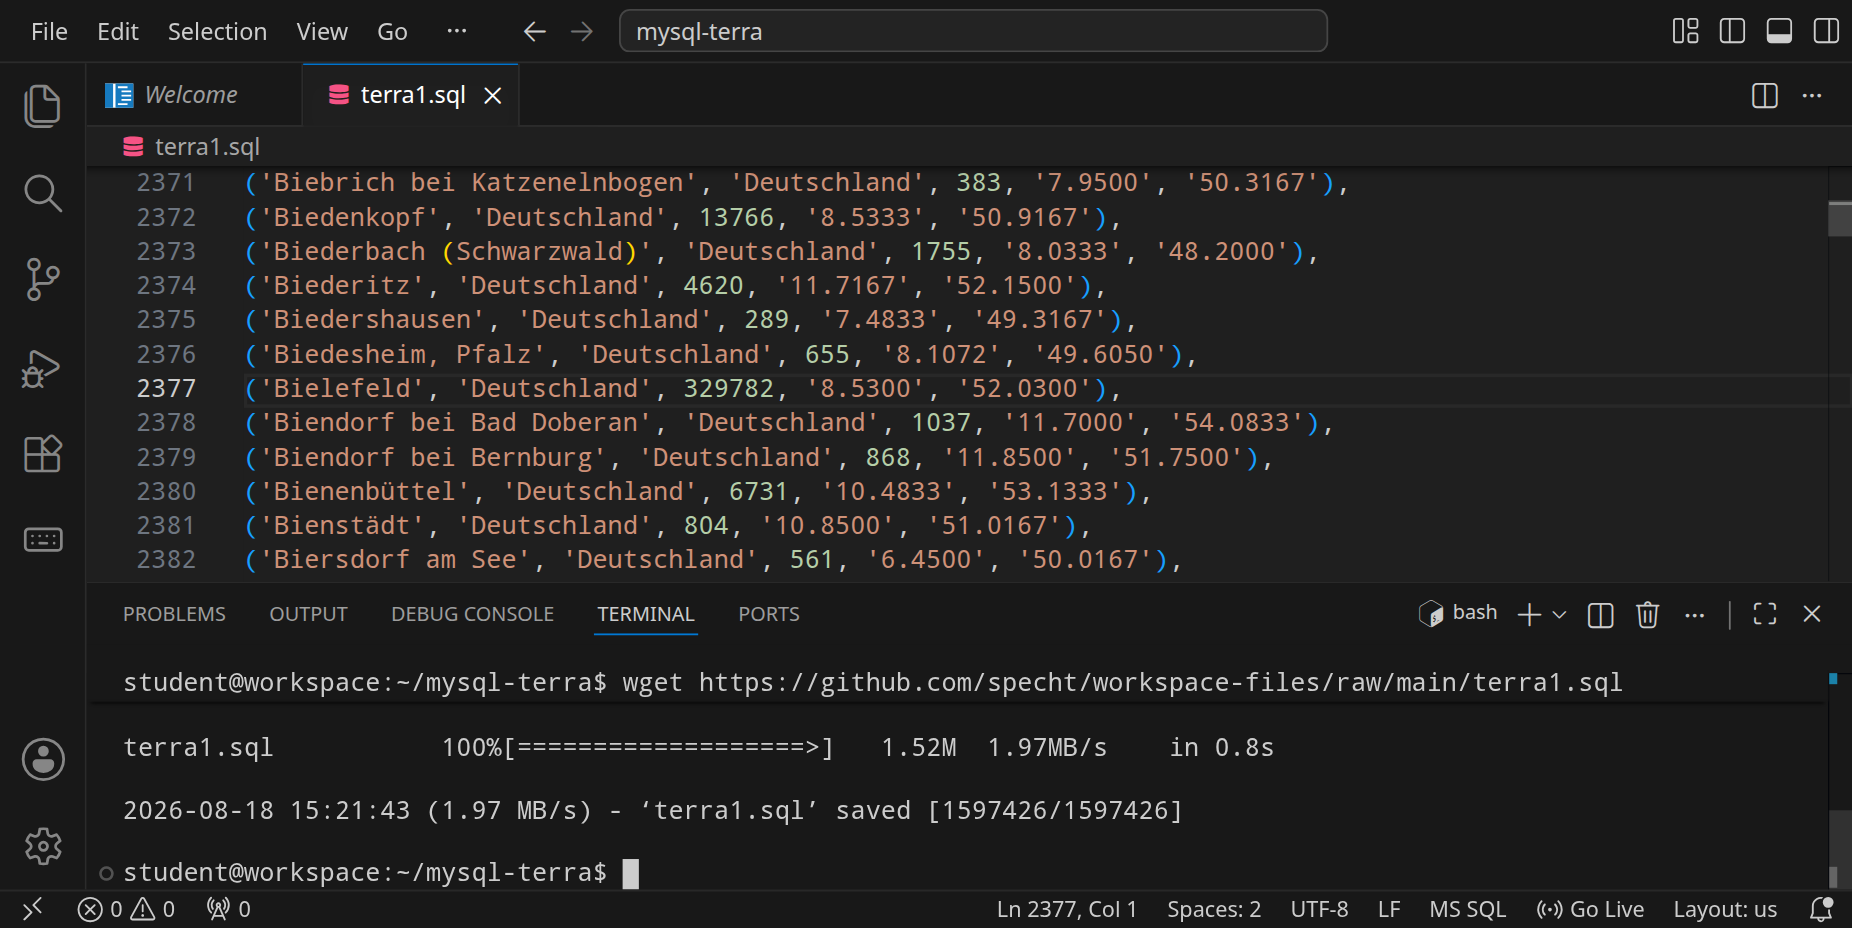
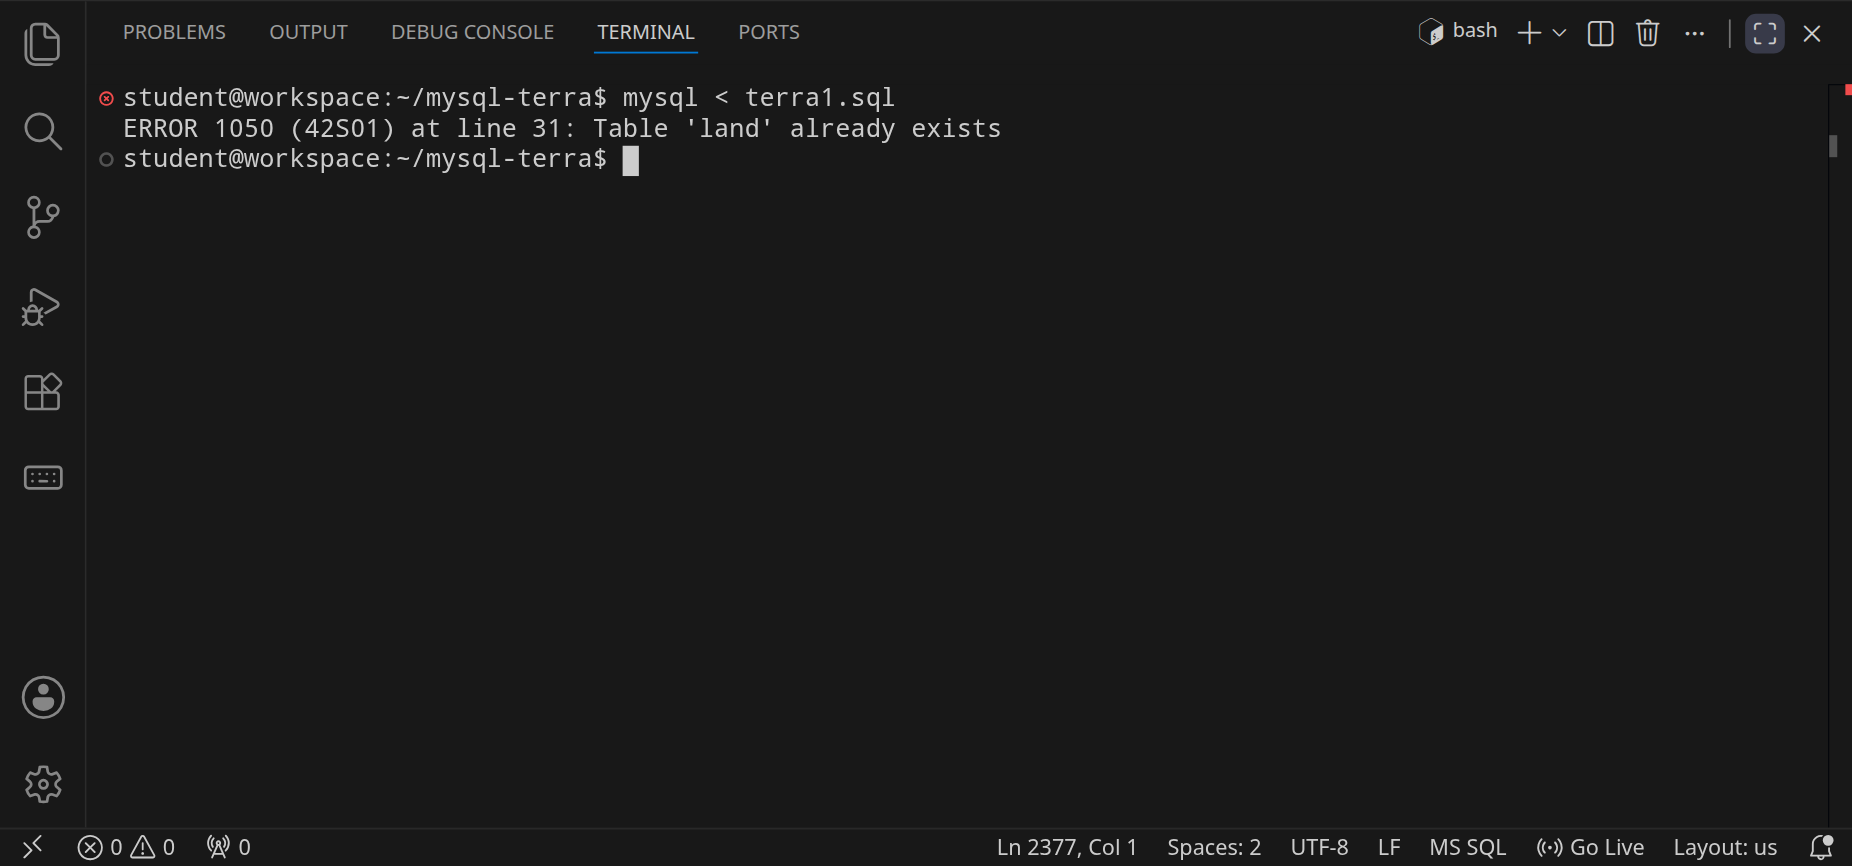
yay

diff --git a/src/tutorial-screenshots/server.js b/src/tutorial-screenshots/server.js
@@ -998,10 +998,8 @@ async function focusTerminal() {
     const terminal = workspace.locator('.terminal.xterm:visible').last();
     await terminal.waitFor({ state: 'visible', timeout: 30_000 });
 
-    const screen = terminal.locator('.xterm-screen').first();
-    await screen.waitFor({ state: 'visible', timeout: 10_000 });
-    await screen.click({ position: { x: 20, y: 20 } });
-
+    // Focus xterm's keyboard input directly. VS Code can place terminal widgets
+    // above the screen, so a pointer click on .xterm-screen can be intercepted.
     const textarea = terminal.locator('textarea.xterm-helper-textarea').first();
     await textarea.waitFor({ state: 'attached', timeout: 10_000 });
     await textarea.focus();

diff --git a/src/content/mysql/mysql.md b/src/content/mysql/mysql.md
@@ -101,9 +101,12 @@ mysql < terra1.sql
 press: Control+B
 press: Control+J
 terminal-maximize
-#terminal-run: mysql < terra1.sql
-#terminal-wait-for-prompt
+#click: selector:.codicon-panel-maximize
+terminal-run: clear
+terminal-run: mysql < terra1.sql
+terminal-wait-for-prompt
 sleep: 0.5
+crop-top: 6.7%
 -->
 
 <img class='full' src='sql-import.webp' alt=''>
